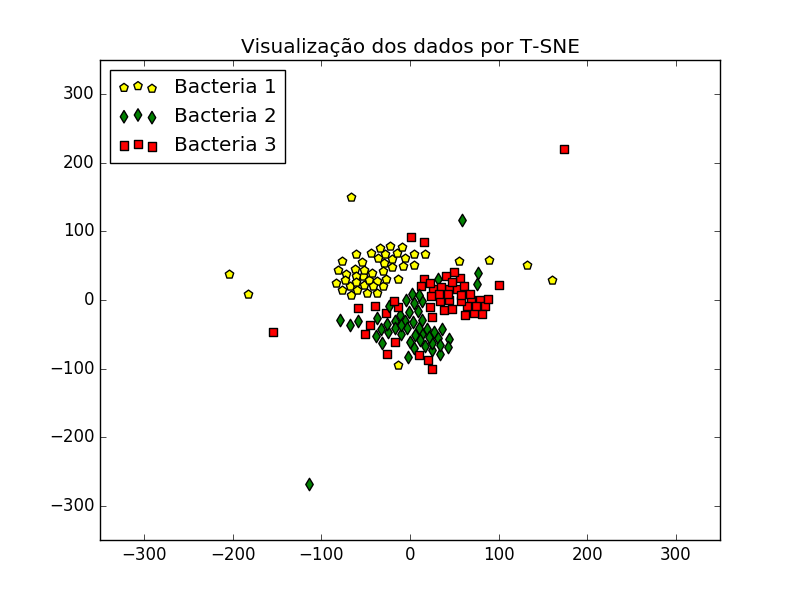
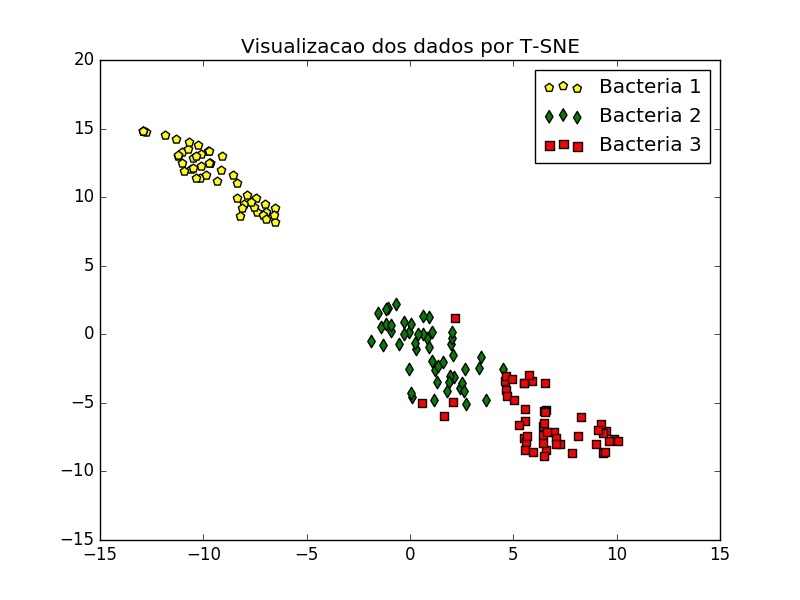
Visualização das novas feactures

diff --git a/visulizacao_dados/tsne.py b/visulizacao_dados/tsne.py
@@ -1,15 +1,14 @@
-#visalizando um dado muiltidimensional com o T-SNE
 import sklearn.manifold as sk
 import numpy as np
 import pandas as pd
 import matplotlib.pyplot as plt
 
-data = pd.read_csv('../processamento_de_dados/result.csv')
+data = pd.read_csv('../processamento_de_dados/resultado.csv')
 sv = np.asarray(data['Tipo'])
 #retirnado dado do DataFrame
 
-
 del (data['Tipo'])
+print(data)
 
 
 tsne = sk.TSNE(n_components=2, random_state=0)
@@ -20,14 +19,14 @@ color={3:'red', 1:'yellow', 2:'green'}
 marcadores={3:'s',2:'d',1:'p'}
 plt.figure()
 
-plt.title("Visualização dos dados por T-SNE")
+plt.title("Visualizacao dos dados por T-SNE")
 
 for cl in range(0,150):
 		cor = color[sv[cl]]
 		mark = marcadores[sv[cl]]
 		plt.scatter(teste1[cl,0],teste1[cl,1],c=cor,marker=mark,s=40)
 
-plt.xlim([-350,350])
-plt.ylim([-350,350])
-plt.legend(['Bacteria 1', 'Bacteria 2','Bacteria 3'],loc='upper left')
+#plt.xlim([-350,350])
+#plt.ylim([-350,350])
+plt.legend(['Bacteria 1', 'Bacteria 2','Bacteria 3'],loc='upper right')
 plt.show()
